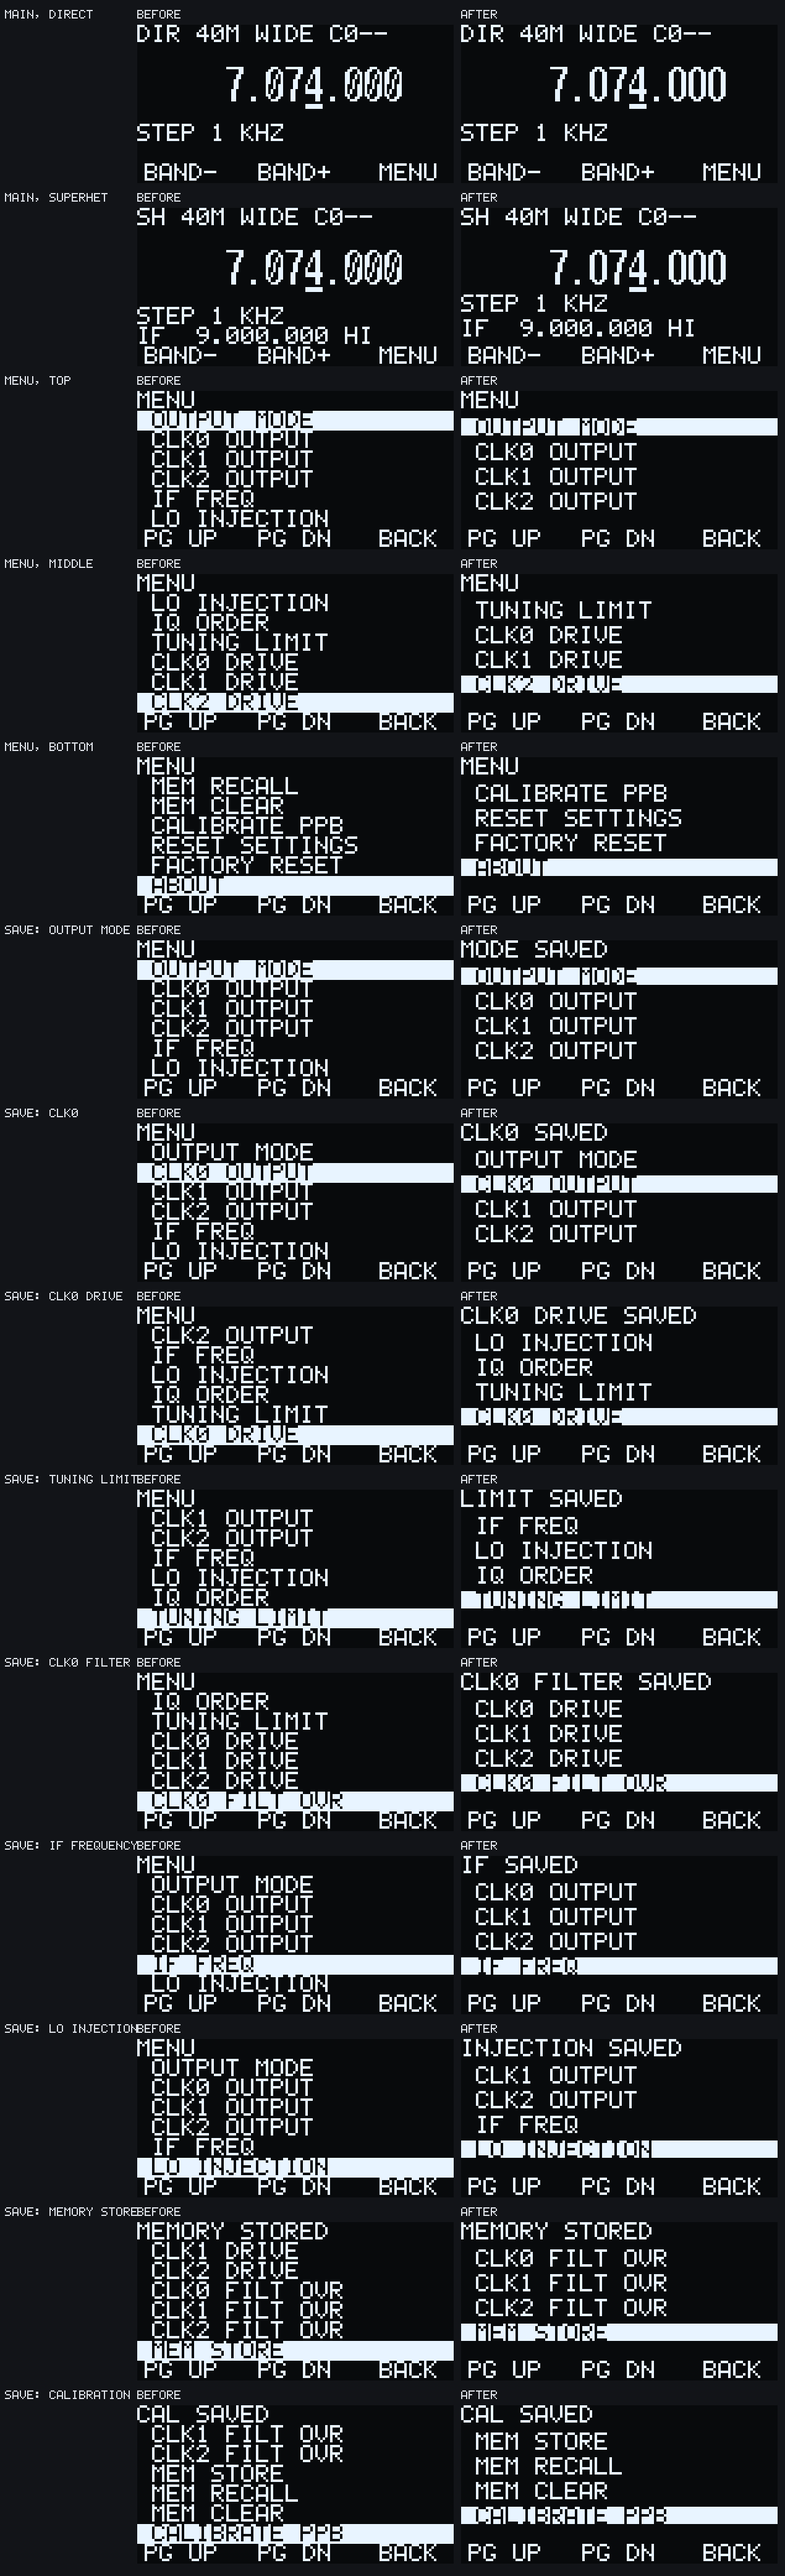
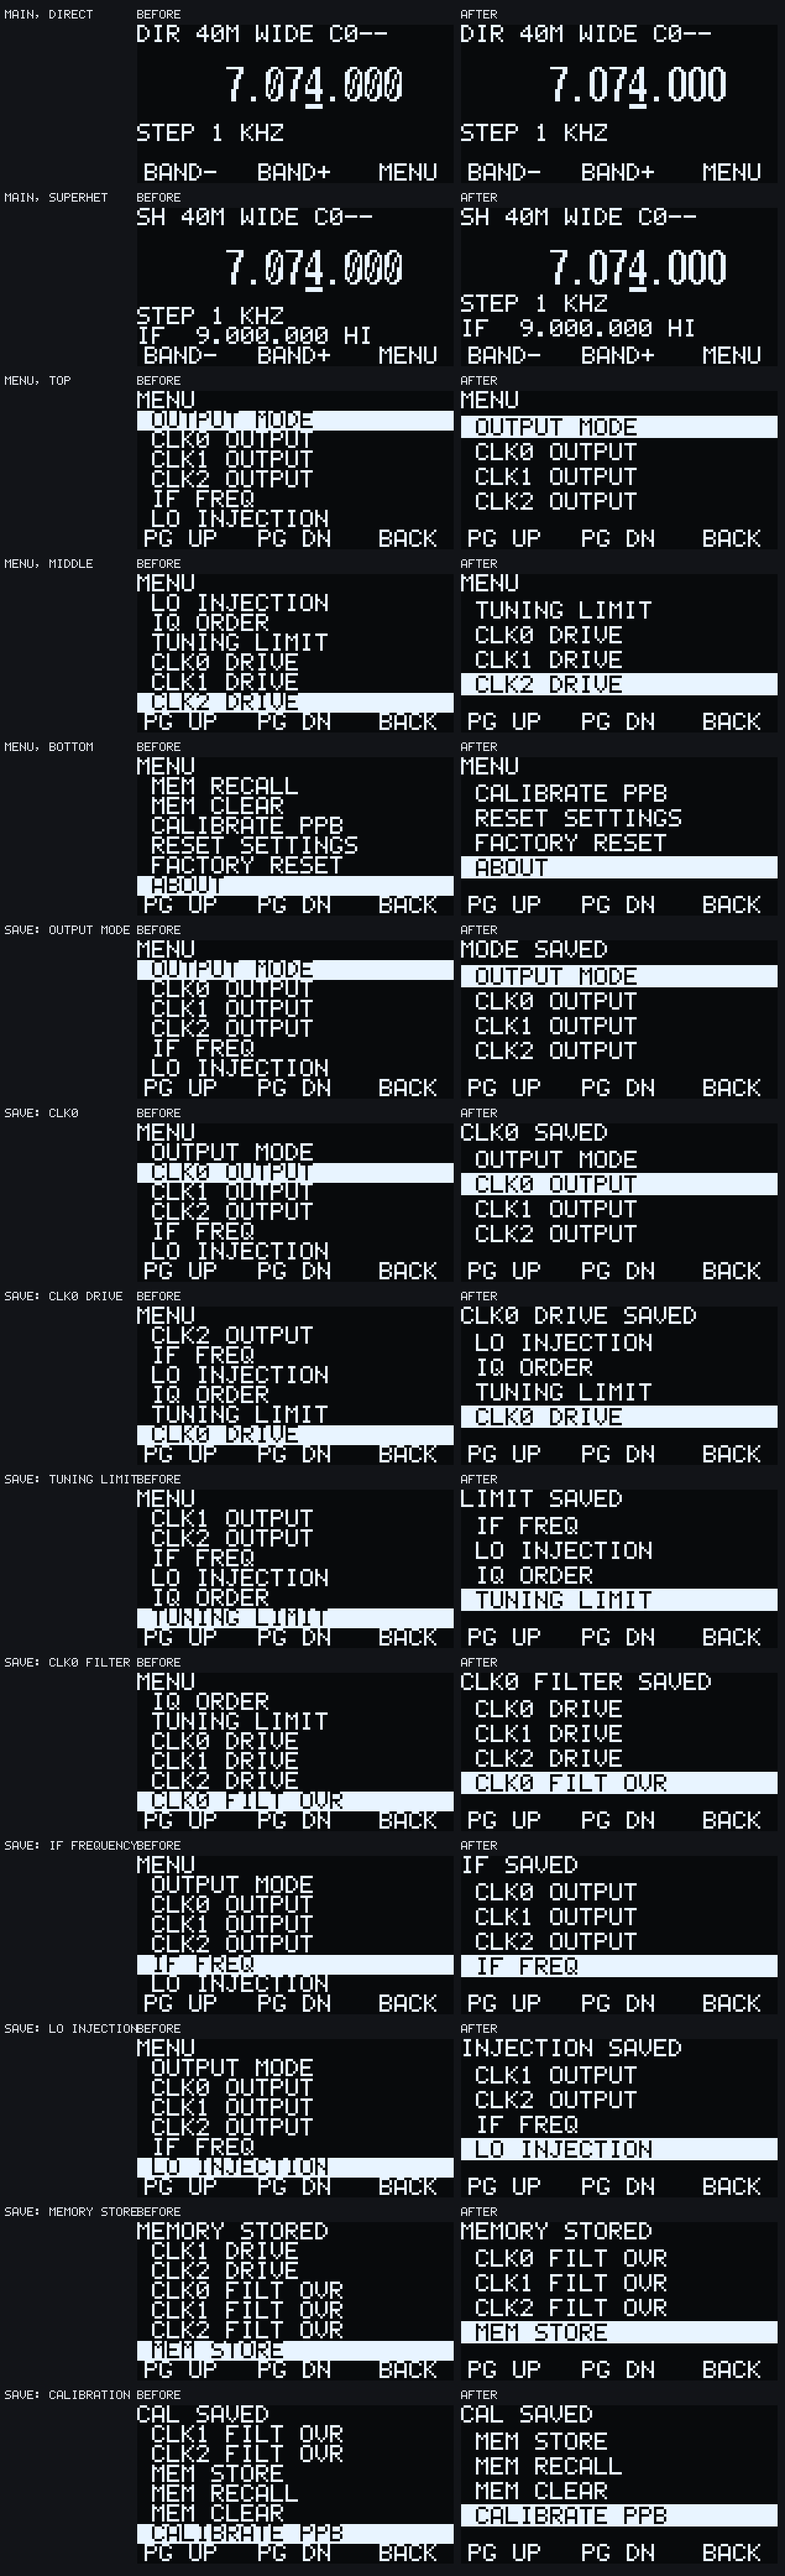
Pad the menu highlight and record the current firmware size.
The inverted bar is 9 px, one pixel above and below the 7 px glyphs, so the letters no longer sit on its edge. The 10 px row pitch is unchanged, which leaves a 1 px gap between bars and rows 49-55 blank above the key labels. The README size row matches this ATtiny3226 build: 29,280 B flash, 662 B RAM.

diff --git a/tools/oledsim/render.py b/tools/oledsim/render.py
@@ -280,6 +280,78 @@ def read_text_at(rows, x, y0, nchars):
     return "".join(out)
 
 
+def is_pitched_menu(rows):
+    """True for the 10 px menu. Page-packed frames still decode as items."""
+    paged = list_rows(rows)
+    if paged and all(any(text.endswith(it) for it in ITEMS) for _, text, _ in paged):
+        return False
+    return bool(pitched_rows(rows))
+
+
+def row_full(rows, y):
+    return 0 <= y < len(rows) and all(rows[y])
+
+
+def row_dark(rows, y):
+    return y < 0 or y >= len(rows) or not any(rows[y])
+
+
+def check_highlight(raw_dir):
+    """9 px selection bar on the pitched menu: 1 px pad above and below the
+    7 px glyph, 10 px row pitch, no contact with the next row or the labels,
+    and every glyph still readable inside the panel."""
+    sample = os.path.join(raw_dir, "menu_top.pbm")
+    if not os.path.exists(sample) or not is_pitched_menu(load_pbm(sample)):
+        print("highlight pad: skipped (page-packed menu)")
+        return
+    fails = 0
+    pitch = [11, 21, 31, 41]
+    for name in sorted(os.listdir(raw_dir)):
+        if not name.endswith(".pbm"):
+            continue
+        if not (name.startswith("menu_") or name.startswith("save_")):
+            continue
+        rows = load_pbm(os.path.join(raw_dir, name))
+        if not is_pitched_menu(rows):
+            print(name, "is not a pitched menu")
+            fails += 1
+            continue
+        got = pitched_rows(rows)
+        if [y for y, _, _ in got] != pitch:
+            print(name, "pitch", [y for y, _, _ in got])
+            fails += 1
+        for y in range(7, 10):
+            if not row_dark(rows, y):
+                print(name, "row", y, "lit under the title")
+                fails += 1
+        for y in range(49, 56):
+            if not row_dark(rows, y):
+                print(name, "row", y, "lit above the key labels")
+                fails += 1
+        for y, text, inv in got:
+            if y < 0 or y + 6 > 63:
+                print(name, "glyph clipped at", y)
+                fails += 1
+            if "?" in text:
+                print(name, "unreadable glyph in", text)
+                fails += 1
+            if inv:
+                # Pad rows are solid. The rows just outside the 9 px bar are dark,
+                # which is the gap to the title, the next row, or the labels.
+                if not row_full(rows, y - 1) or not row_full(rows, y + 7):
+                    print(name, "bar pad missing around", text, "at", y)
+                    fails += 1
+                if not row_dark(rows, y - 2) or not row_dark(rows, y + 8):
+                    print(name, "bar touches a neighbour", text, "at", y)
+                    fails += 1
+            elif not row_dark(rows, y - 1) or not row_dark(rows, y + 7):
+                print(name, "unselected row has a bar", text)
+                fails += 1
+    if fails:
+        raise SystemExit("%d highlight checks failed" % fails)
+    print("highlight ok: 9 px bar, 10 px pitch, labels clear")
+
+
 def check_messages(raw_dir):
     """Title-line confirmations and CANCEL must stay inside 128 columns."""
     fails = 0
@@ -384,8 +456,12 @@ def main():
     png = sys.argv[2]
     check_scroll(raw)
     check_messages(raw)
+    check_highlight(raw)
     export_dir(raw, png)
     if len(sys.argv) >= 5:
+        check_scroll(sys.argv[3])
+        check_messages(sys.argv[3])
+        check_highlight(sys.argv[3])
         contact(raw, sys.argv[3], sys.argv[4])
     return 0
 

diff --git a/firmware/Si5351AVFO/ui.cpp b/firmware/Si5351AVFO/ui.cpp
@@ -14,10 +14,11 @@
 // Those three are drawn with a gap between each instead, and the info line
 // stops short of the labels.
 //
-// The menu shows MENU_ROWS lines at a 10 px pitch (7 px text, 3 px gap) so
-// the selection bar does not touch the row above it, and stops at y=47 so
-// page 6 stays blank above the key labels. Page 0 is the title, or a
-// confirmation while one is up.
+// The menu shows MENU_ROWS lines at a 10 px pitch (7 px text, 3 px gap). The
+// selection bar is 9 px, one pixel above and below the glyphs, so the letters
+// do not touch its edges and neighbouring bars stay one pixel apart. The last
+// bar ends at y=48, leaving y=49-55 blank above the key labels. Page 0 is the
+// title, or a confirmation while one is up.
 //
 // Controls:
 //   main  : encoder tunes, push cycles step, SW2 BAND-, SW3 BAND+, SW4 MENU
@@ -79,8 +80,8 @@ static const MenuItem ITEMS[I_COUNT] = {
   {"ABOUT",        K_CHOICE, 1, FW_NAME " " FW_VERSION},
 };
 #define MENU_ROWS 4                      // visible rows; 21 items scroll through them
-#define MENU_Y0   11                     // first row (4 px under the title)
-#define MENU_DY   10                     // 7 px glyph + 3 px gap
+#define MENU_Y0   11                     // glyph top; the bar starts one pixel higher
+#define MENU_DY   10                     // 7 px glyph + 3 px gap (bars stay 1 px apart)
 
 static uint8_t menu_sel, menu_top;       // selected item, first visible item
 static int32_t edit_val;                 // working copy while editing
@@ -265,7 +266,8 @@ static void draw_main() {
 static void draw_menu() {
   char buf[24];
   if (redraw) labels("PG UP", "PG DN", "BACK");
-  // Pages 1-6. Page 6 stays empty: the last glyph ends at y=47.
+  // Pages 1-6. Glyphs end at y=47. The last bar's lower pad is y=48;
+  // y=49-55 stay blank above the key labels.
   uint8_t pagebuf[128];
   for (uint8_t page = 1; page <= 6; page++) {
     memset(pagebuf, 0, sizeof(pagebuf));

diff --git a/firmware/Si5351AVFO/sh1106.h b/firmware/Si5351AVFO/sh1106.h
@@ -20,9 +20,10 @@ void setPos(uint8_t page, uint8_t col);
 // before the next page.
 void text5x7(uint8_t page, uint8_t col, const char *s, uint8_t ul = 0xFF, bool inv = false);
 // OR 5x7 text into a 128-byte image of `page`. `y` is the glyph top in screen
-// pixels, so a line can sit on a page boundary. `inv` paints a 7 px bar and
-// punches the glyphs out of it. The caller clears `dst` and flushes with
-// writePage; nothing here is stored on the panel until then.
+// pixels, so a line can sit on a page boundary. `inv` paints a 9 px bar (one
+// pixel above the 7 px glyph and one below) and punches the glyphs out of it.
+// The caller clears `dst` and flushes with writePage; nothing here is stored
+// on the panel until then.
 void paint5x7(uint8_t *dst, uint8_t page, uint8_t y, uint8_t col, const char *s, bool inv);
 void writePage(uint8_t page, const uint8_t *bytes);
 // 8x16 digits over two pages (8 px per char); only '0'-'9', '.', '-', ' '.

diff --git a/firmware/Si5351AVFO/sh1106.cpp b/firmware/Si5351AVFO/sh1106.cpp
@@ -125,10 +125,12 @@ void text5x7(uint8_t page, uint8_t col, const char *s, uint8_t ul, bool inv) {
 void paint5x7(uint8_t *dst, uint8_t page, uint8_t y, uint8_t col, const char *s, bool inv) {
   uint8_t top = page * 8;
   if (inv) {
-    for (uint8_t b = 0; b < 7; b++) {
-      uint8_t yy = y + b;
-      if (yy < top || yy >= top + 8) continue;
-      uint8_t bit = 1 << (yy - top);
+    // 9 px bar: one pixel above the glyph and one below, so ink does not sit
+    // on the highlight edge. Rows outside this page, or off the panel, skip.
+    for (int8_t b = -1; b <= 7; b++) {
+      int16_t yy = (int16_t)y + b;
+      if (yy < 0 || yy > 63 || yy < top || yy >= top + 8) continue;
+      uint8_t bit = 1 << (uint8_t)(yy - top);
       for (uint8_t x = 0; x < 128; x++) dst[x] |= bit;
     }
   }

diff --git a/firmware/README.md b/firmware/README.md
@@ -44,7 +44,7 @@ pio run -t upload       # upload via Optiboot on the USB serial port
 
 | Build | Flash | RAM |
 |---|---:|---:|
-| Full (serial on, rev 3.5) | 28,273 B of 32,256 B (87.7%) | 662 B of 3,072 B (21.5%) |
+| Full (serial on) | 29,280 B of 32,256 B (90.8%) | 662 B of 3,072 B (21.5%) |
 | `ENABLE_SERIAL=0` (measured at an earlier revision) | 21,360 B (66.2%) | 474 B |
 
 Si5351Arduino is about 8.9 KB of this. See the flash-optimization notes in the
